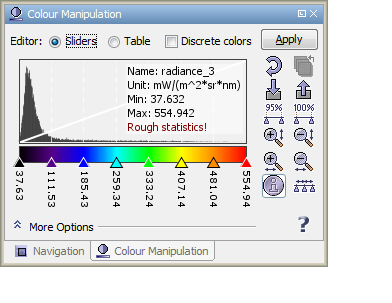
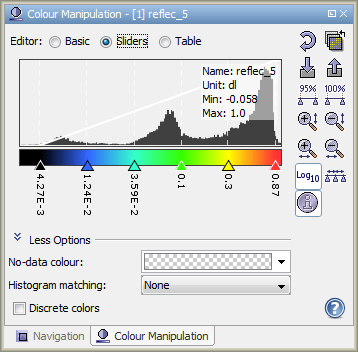
Update visat help for Colour Manipulation Window

diff --git a/beam-help/src/main/resources/doc/help/visat/ColorManipulationWindow.html b/beam-help/src/main/resources/doc/help/visat/ColorManipulationWindow.html
@@ -25,7 +25,7 @@
 <table class="header">
     <tr class="header">
         <td class="header">&nbsp;
-             Colour Manipulation
+            Colour Manipulation
         </td>
 
         <td class="header" align="right"><a href="../general/BeamOverview.html"><img src="../images/BeamHeader.jpg"
@@ -38,7 +38,7 @@
 <p>If you are opening an Image View of a data product's band or tie-point grid, VISAT either loads image settings
     from the product itself (BEAM-DIMAP format only) or uses default colour settings. The <b>Colour Manipulation</b> tool
     window is used to modify the colours used in the image. Depending on the type of the source data used for the images,
-    the colour manipulation window offers for different editors:
+    the colour manipulation window offers different editors:
 </p>
 
 <div align="center">
@@ -55,6 +55,15 @@
             <td align="center" style="border-width:0">
                 <b>A.2</b>: Editor for images of a single, spectral/geophysical band
                 in <b>Table</b> mode
+            </td>
+        </tr>
+        <tr>
+            <td colspan="2" align="center" style="border-width:0; padding-top: 15px;"><img src="images/ColManip1BBSmall.png"/></td>
+        </tr>
+        <tr>
+            <td colspan="2" align="center" style="border-width:0">
+                <b>A.3</b>: Editor for images of a single, spectral/geophysical band
+                in <b>Basic</b> mode
             </td>
         </tr>
         <tr>
@@ -86,9 +95,7 @@
     from the main menu.
 </p>
 
-<p>Changes in the colour manipulation window will be become effective only if
-    the <b>Apply</b> button is pressed.
-</p>
+<p>Changes in the colour manipulation window will be directly become effective.</p>
 
 <p>If the <font color="red">Rough statistics!</font> is shown, the statistical information is computed on a
     sub-sampled level. You can click on it, in order to compute the accurate statistical data.
@@ -102,10 +109,19 @@
     change the assignment of sample values to colours:
 </p>
 
-<p align="center"><img src="images/ColManip1BS.png"></p>
+<h4>Slider Mode</h4>
+
+<div align="center">
+    <table>
+        <tr>
+            <td align="center" style="border-width:0"><img src="images/CM_default.png"></td>
+            <td align="center" style="border-width:0"><img src="images/CM_colors.png"></td>
+        </tr>
+    </table>
+</div>
 
 
-<h4>Colour Palette Modifications</h4>
+<h5>Colour Palette Modifications</h5>
 
 <p> As the white diagonal line above the histogram indicates, the colour palette will
     be linearily applied to the samples of the source band of the current <a href="ProductSceneView.html">Image View</a>.
@@ -119,7 +135,7 @@
 <p>Slider colours are changed by clicking a slider. A popup window appears, where you can select the new colour.
     If you select <b>None</b>, a fully transparent slider results. In the <b>More Options</b> panels you can adjust the
     <b><a href="#nodata">No-Data Colour</a></b> and apply a
-        <b><a href="#histomatch">Histogram Matching</a></b> to enhance the contrast of the final image.
+    <b><a href="#histomatch">Histogram Matching</a></b> to enhance the contrast of the final image.
 </p>
 
 <p> If you right-click on a slider, a context menu will pop up. The available actions are
@@ -127,12 +143,30 @@
     Some actions may be disabled when the action cannot be performed.
 </p>
 
+<h4>Basic Mode</h4>
+
+<p> In the basic mode it is possible to select a color ramp from a set of predefined color palettes.
+    The selected color ramp will be applied to the current display range.
+    You can change the bounds of the display range by editing the min/max values.
+    Also you can set the display bounds to min/max defined by the selected color palette file, or set display
+    bounds to the minimum and maximum data values.
+</p>
+
+<div align="center">
+    <table>
+        <tr>
+            <td align="center" style="border-width:0"><img src="images/CM_basic.png"></td>
+            <td align="center" style="border-width:0"><img src="images/CM_basic_dropdown.png"></td>
+        </tr>
+    </table>
+</div>
+
 <h4>Table Mode</h4>
 
 <p>By changing the <b>Editor</b> option from <b>Sliders</b> to <b>Table</b> the sample value to colour assignment can
     be done in a table:</p>
 
-<p align="center"><img src="images/ColManip1BT.png"></p>
+<p align="center"><img src="images/CM_table.png"></p>
 
 <p>Here you can enter the colour and sample values directly by clicking into a table cell.</p>
 
@@ -141,7 +175,7 @@
 <p>Images of a single, index-coded band, e.g. the output of a <a href="clusteranalysis/ClusterAnalysis.html">cluster analysis</a>, look-up discrete colours from a
     fixed-size table:</p>
 
-<p align="center"><img src="images/ColManip1BI.png"></p>
+<p align="center"><img src="images/CM_indexCoding.png"></p>
 
 <p>Labels and colours are simply changed by clicking into the corresponding table cell.
     In the <b>More Options</b> panels you can adjust the <b><a href="#nodata">No-Data Colour</a></b>.</p>
@@ -153,7 +187,7 @@
     can switch between the channels in order to edit the contrast stretch range and gamma value of each channel
     separately.</p>
 
-<p align="center"><img src="images/ColManipRGB.png"></p>
+<p align="center"><img src="images/CM_rgb.png"></p>
 
 <p>In this mode the sliders are used for contrast stretching in each of the R,G,B channels.
     In the <b>More Options</b> panels, you can adjust the <b><a href="#nodata">No-Data Colour</a></b> and
@@ -242,6 +276,23 @@
     <img src="images/icons/ZoomOut24H.gif">icon
     to zoom out of the histogram horizontally.
 </p>
+
+<h4>Logarithmic display</h4>
+
+<p> With a click to the button <img src="images/icons/LogDisplay24.png"> it is possible
+    to distribute the color bar sliders in logarithmic manner (right image in the figure below). So lower values can be
+    displayed with smaller color steps.
+</p>
+
+<div align="center">
+    <table>
+        <tr>
+            <td align="center" style="border-width:0"><img src="images/CM_Lin_Slider.png"><br>linear color ramp</td>
+            <td align="center" style="border-width:0"><img src="images/CM_Log_Slider.png"><br>logarithmic color ramp</td>
+        </tr>
+    </table>
+</div>
+
 
 <h4>Reset</h4>
 
